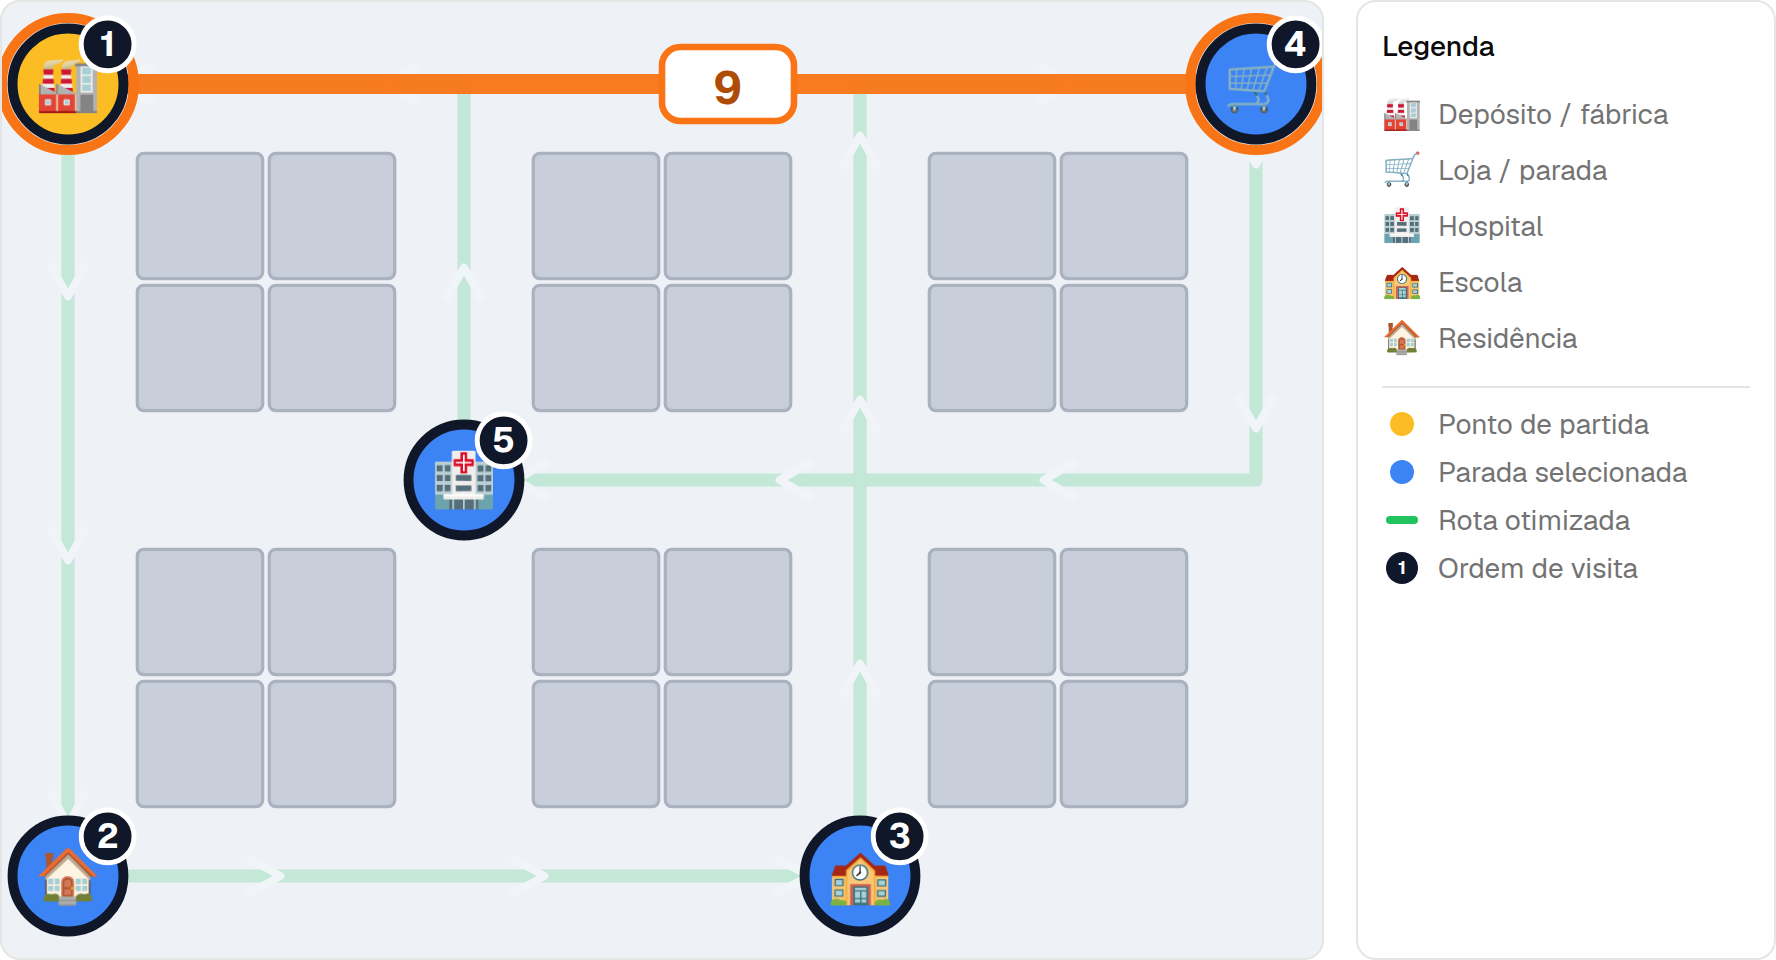
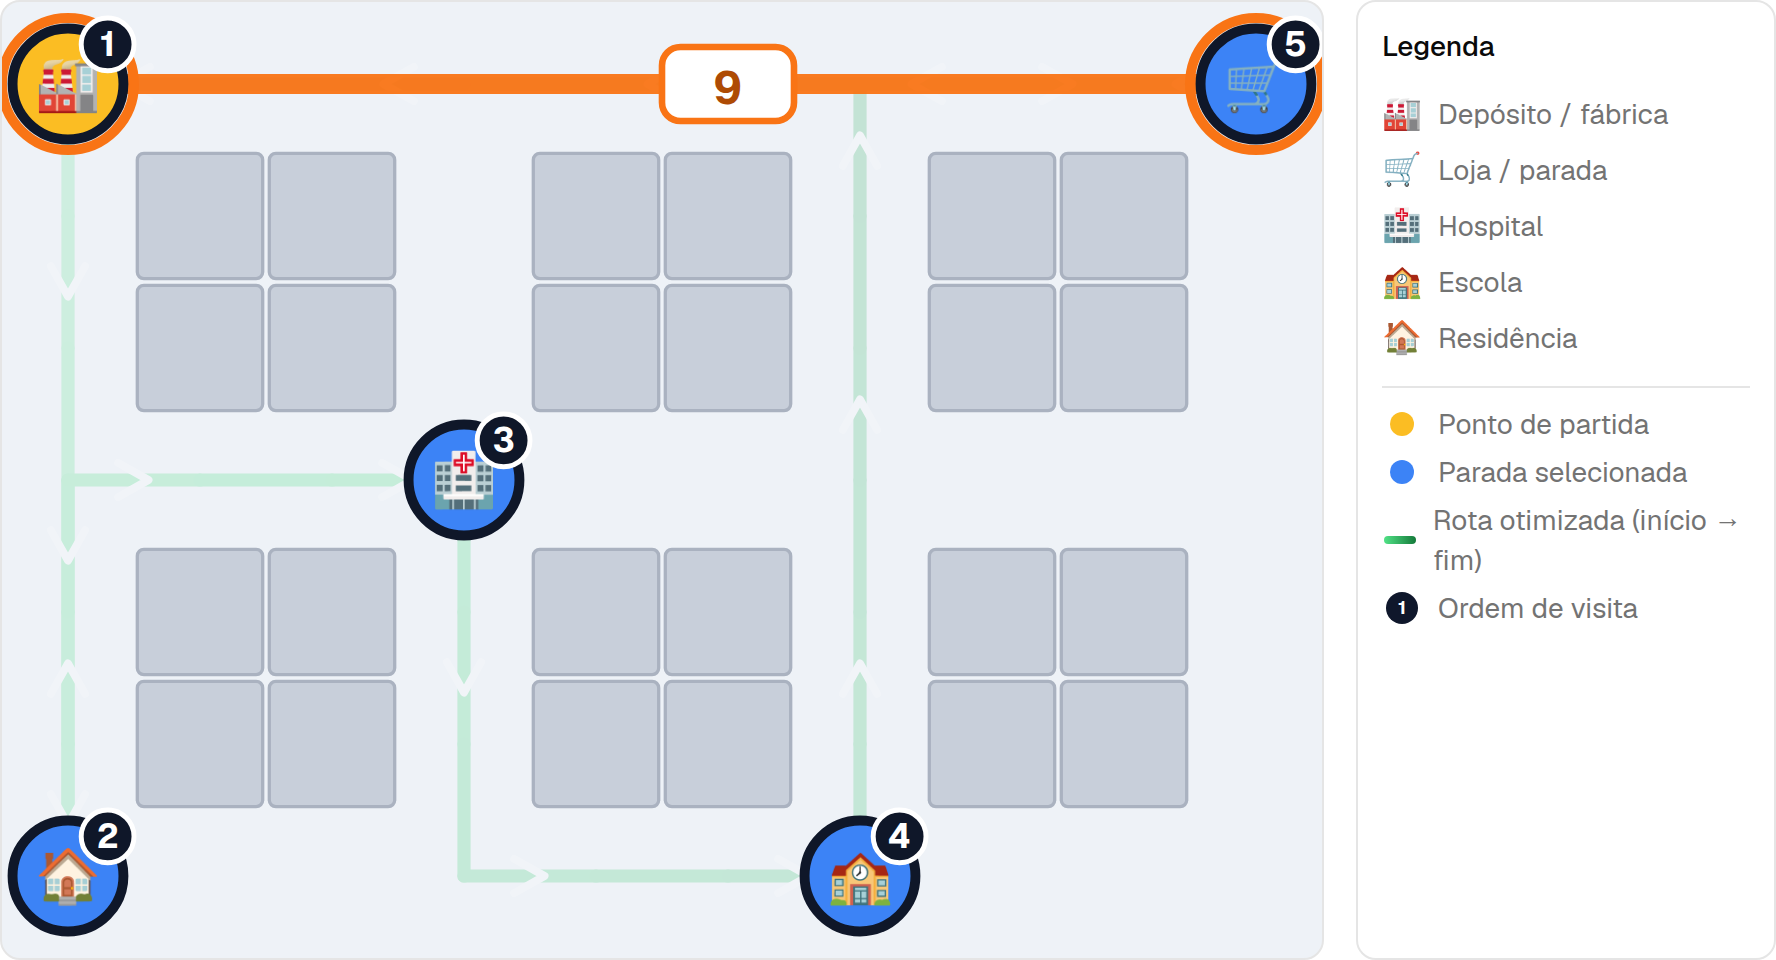
docs: green-scale route in prose; regenerate route/hover screenshots

diff --git a/README.md b/README.md
@@ -64,8 +64,8 @@ in a fraction of the time, and the UI lets you *see* how close it gets.
 - **Goal-based agent**: Hill Climbing + Random Restart over a 2-opt neighborhood, deterministic under a seed.
 - **Visited-state memory** ("memória de estados") — identical tours are never re-evaluated within a run.
 - **Three-way benchmark**: agent route vs. random route vs. exact brute force (guarded to `N < 10`).
-- **Server-rendered charts** (matplotlib PNGs): the **route** along the streets and the full **cost-evolution sawtooth** with restart markers and the global-minimum annotation.
-- **Street-following route** drawn on the grid, with `>` direction arrows along the path so the travel order is easy to read.
+- **Server-rendered charts** (matplotlib PNGs): the **route** along the streets (same green scale, with the meaningless pixel axes removed) and the full **cost-evolution sawtooth** with restart markers and the global-minimum annotation.
+- **Street-following route** drawn as a **green scale** (light at the start → dark at the end) with `>` direction arrows along the path, so travel direction is easy to read.
 - **Order badges & gold start** — after optimizing, each stop shows its visiting order and the start is marked gold.
 - **Icon legend** beside the map explaining each sprite and the marker conventions (start / selected / route / order).
 - **Interactive cost matrix** for the selected stops (color-scaled table, shown above the benchmark comparison) — hovering a cell highlights that leg's street path and cost on the map.
@@ -86,7 +86,7 @@ Click any point to add it as a stop.
 ![A city grid with building blocks and sprite points](docs/screenshots/01-map-view.png)
 
 ### Optimized round-trip + benchmark
-The agent's closed route drawn in green, **following the streets at right angles around the buildings**,
+The agent's closed route drawn as a **green scale** (light start → dark end), **following the streets at right angles around the buildings**,
 with small `>` arrows marking the direction of travel and a **numbered badge** on each stop showing the
 visiting order (the **gold** marker is the start). The legend at the right explains the icons. Below the
 map: the route sequence and total cost, the **cost matrix**, the agent-vs-random-vs-brute-force
@@ -381,7 +381,7 @@ above the guard is **not** an error — it's skipped with `brute_force_skipped: 
 | `src/lib/grid.ts` | Pure helpers mirroring the backend grid contract: `cellCenter`, `isFree`, `bfsPath` (shortest cell path used to draw route legs) |
 | `src/lib/sprites.ts` | Shared sprite metadata: `SPRITE_EMOJI`, `SPRITE_LABELS`, `SPRITES` (used by canvas, painter, legend) |
 | `src/types.ts` | Shared TypeScript types mirroring the backend Pydantic schemas (`Cell`, `GridModel`, `style`, `OptimizeResponse`, `RunSummary`, `RunDetail`) |
-| `src/components/MapCanvas.tsx` | SVG canvas: themed grid, sprite points, click-to-toggle stops, the street-following route polyline (BFS) with `>` direction chevrons, **visiting-order badges**, a **gold** start marker, and the **hovered cost-matrix leg** (orange path + cost badge) |
+| `src/components/MapCanvas.tsx` | SVG canvas: themed grid, sprite points, click-to-toggle stops, the street-following **green-scale** route (BFS, light→dark = direction) with `>` direction chevrons, **visiting-order badges**, a **gold** start marker, and the **hovered cost-matrix leg** (orange path + cost badge) |
 | `src/components/MapLegend.tsx` | Legend beside the canvas: each map sprite + meaning, and the marker/route conventions |
 | `src/components/StopList.tsx` | Lists selected stops, radio to designate the start, remove button |
 | `src/components/MapPicker.tsx` | Dropdown of maps, delete (non-presets), and the **Novo mapa** button that opens the creation dialog |